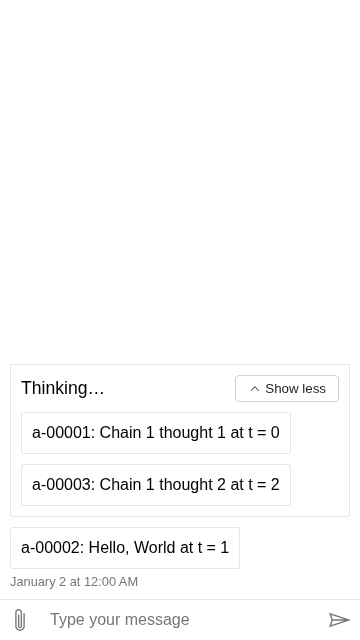
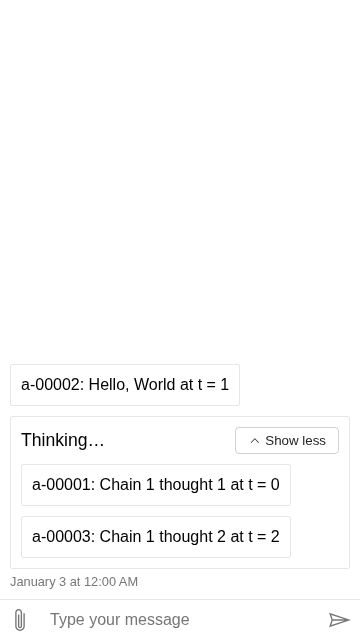
Fix test: part grouping will always have updated timestamp

diff --git a/__tests__/html2/activityOrdering/partGroupingAtTheEndOfChatHistory.html b/__tests__/html2/activityOrdering/partGroupingAtTheEndOfChatHistory.html
@@ -95,9 +95,9 @@
         });
 
         expect(pageElements.activityContents().map(({ textContent }) => textContent)).toEqual([
+          'a-00002: Hello, World at t = 1',
           'a-00001: Chain 1 thought 1 at t = 0',
-          'a-00003: Chain 1 thought 2 at t = 2',
-          'a-00002: Hello, World at t = 1'
+          'a-00003: Chain 1 thought 2 at t = 2'
         ]);
 
         await host.snapshot('local');
@@ -121,9 +121,9 @@
         });
 
         expect(pageElements.activityContents().map(({ textContent }) => textContent)).toEqual([
+          'a-00002: Hello, World at t = 1',
           'a-00001: Chain 1 thought 1 at t = 0',
           'a-00003: Chain 1 thought 2 at t = 2',
-          'a-00002: Hello, World at t = 1',
           'a-00004: Chain 2 thought 1 at t = 3'
         ]);
 
@@ -144,15 +144,16 @@
           id: 'a-00005',
           text: 'a-00005: Chain 2 thought 2 at t = 0',
           // Intentionally roll back the date.
-          // It should be grouped and not appear before "Hello, World!'
+          // It should be grouped but not appear before "Hello, World!"
+          // This is because the part grouping timestamp is max of all parts, i.e. 3 * 86_400_000.
           timestamp: new Date(0).toISOString(),
           type: 'message'
         });
 
         expect(pageElements.activityContents().map(({ textContent }) => textContent)).toEqual([
+          'a-00002: Hello, World at t = 1',
           'a-00001: Chain 1 thought 1 at t = 0',
           'a-00003: Chain 1 thought 2 at t = 2',
-          'a-00002: Hello, World at t = 1',
           'a-00004: Chain 2 thought 1 at t = 3',
           'a-00005: Chain 2 thought 2 at t = 0'
         ]);
